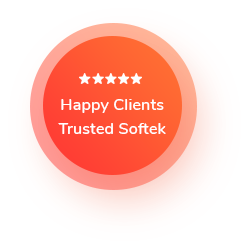
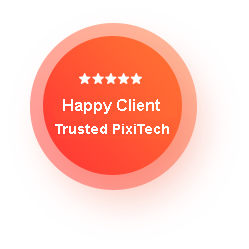
update content

Changed region(s): [[0.2249, 0.3936, 0.7028, 0.5622]]

diff --git a/index.html b/index.html
@@ -4,8 +4,8 @@
 <head>
   <meta name="viewport" content="width=device-width, initial-scale=1">
   <meta name="format-detection" content="telephone=no">
-  <meta name="description" content="Softek - Software & IT Solutions WordPress Theme">
-  <title>Home Version Seventeen – Softek</title>
+  <meta name="description" content="PixiTech - Vietnam Software Development Company">
+  <title>PixiTech - Innovative minds</title>
   <meta name="robots" content="max-image-preview:large">
   <link rel="dns-prefetch" href="//fonts.googleapis.com">
   <link rel="preconnect" href="https://fonts.gstatic.com">
@@ -58,10 +58,9 @@
     }
   </style>
   <link type="text/css" href="css/index.css">
-  <link rel="icon" href="images/Fab_icon-7.png" sizes="32x32">
-  <link rel="icon" href="images/Fab_icon-7.png" sizes="192x192">
-  <link rel="apple-touch-icon-precomposed" href="images/Fab_icon-7.png">
-  <meta name="msapplication-TileImage" content="images/Fab_icon-7.png"><noscript>
+  <link rel="shortcut icon" href="images/favicon.ico" type="image/x-icon">
+  <link rel="icon" href="images/favicon.ico" type="image/x-icon">
+  <noscript>
     <style>
       .woocommerce-product-gallery {
         opacity: 1 !important;
@@ -702,10 +701,10 @@
                                 <div class="logo" style="width: 100%;">
                                   <a href="">
                                     <span class="logo-default" style="text-align: center;">
-                                      <img src="images/new-logo.png">
+                                      <img src="images/pixi-logo.png">
                                     </span>
                                     <span class="logo-rt-dark">
-                                      <img src="images/new-logo.png" alt="logo">
+                                      <img src="images/pixi-logo.png" alt="logo">
                                     </span>
                                   </a>
                                 </div>
@@ -772,7 +771,7 @@
                               class="elementor-element elementor-element-48d56e70 elementor-widget elementor-widget-heading"
                               data-id="48d56e70" data-element_type="widget" data-widget_type="heading.default">
                               <div class="elementor-widget-container">
-                                <h6 class="elementor-heading-title elementor-size-default">PixiTech Co., Ltd
+                                <h6 class="elementor-heading-title elementor-size-default">Vietnam Software Development Company
                                 </h6>
                               </div>
                             </div>
@@ -780,16 +779,14 @@
                               class="elementor-element elementor-element-1b552e8f elementor-widget elementor-widget-heading"
                               data-id="1b552e8f" data-element_type="widget" data-widget_type="heading.default">
                               <div class="elementor-widget-container">
-                                <h1 class="elementor-heading-title elementor-size-default">Vietnam Software Development
-                                  Company</h1>
+                                <h1 class="elementor-heading-title elementor-size-default">Web & Mobile App Development</h1>
                               </div>
                             </div>
                             <div
                               class="elementor-element elementor-element-7334acc6 elementor-widget elementor-widget-text-editor"
                               data-id="7334acc6" data-element_type="widget" data-widget_type="text-editor.default">
-                              <div class="elementor-widget-container">High-performing software solutions that drive your
-                                business forward. Accelerate your software development roadmap through custom
-                                engineering solutions.</div>
+                              <div class="elementor-widget-container">We’re mobile and web development company that helps develop ideas from
+                                napkin sketches to full-fledged products.</div>
                             </div>
                             <section
                               class="elementor-section elementor-inner-section elementor-element elementor-element-76c15dfb elementor-section-boxed elementor-section-height-default elementor-section-height-default"
@@ -890,8 +887,8 @@
                               data-id="73133d09" data-element_type="widget" data-settings='{"_position":"absolute"}'
                               data-widget_type="image.default">
                               <div class="elementor-widget-container"><img width="1448" height="1242"
-                                  src="images/home-17-2x-01-min.webp" class="attachment-full size-full" alt=""
-                                  srcset="images/home-17-2x-01-min.webp 1448w, images/home-17-2x-01-min-300x257.webp 300w, images/home-17-2x-01-min-300x257.webp 600w"
+                                  src="images/pixi-web-app.png" class="attachment-full size-full" alt=""
+                                  srcset="images/pixi-web-app.png 1448w, images/pixi-web-app.png 300w, images/home-17-2x-01-min-300x257.webp 600w"
                                   sizes="(max-width: 1448px) 100vw, 1448px"></div>
                             </div>
                           </div>
@@ -1177,8 +1174,7 @@
                               data-settings='{"_animation":"fadeIn","_animation_delay":300}'
                               data-widget_type="heading.default">
                               <div class="elementor-widget-container">
-                                <h3 class="elementor-heading-title elementor-size-default">We Are Creative In Design
-                                  &amp; Development</h3>
+                                <h3 class="elementor-heading-title elementor-size-default">Software Consulting and Development</h3>
                               </div>
                             </div>
                             <div
@@ -1187,8 +1183,7 @@
                               data-settings="{&quot;_animation&quot;:&quot;fadeIn&quot;,&quot;_animation_delay&quot;:400}"
                               data-widget_type="text-editor.default">
                               <div class="elementor-widget-container">
-                                We’re international mobile and web development company that helps develop ideas from
-                                napkin sketches to full-fledged products.</div>
+                                High-performing software solutions that drive your business forward. Accelerate your software development roadmap through custom engineering solutions.</div>
                             </div>
                             <section
                               class="elementor-section elementor-inner-section elementor-element elementor-element-1b673fc2 elementor-section-boxed elementor-section-height-default elementor-section-height-default elementor-invisible"
@@ -1254,7 +1249,7 @@
                                       class="elementor-column elementor-col-50 elementor-inner-column elementor-element elementor-element-258d033f"
                                       data-id="258d033f" data-element_type="column">
                                       <div class="elementor-widget-wrap elementor-element-populated">
-                                        <div
+                   <!--                      <div
                                           class="elementor-element elementor-element-6422a841 elementor-widget elementor-widget-heading"
                                           data-id="6422a841" data-element_type="widget"
                                           data-widget_type="heading.default">
@@ -1262,14 +1257,12 @@
                                             <h6 class="elementor-heading-title elementor-size-default">Customer Focus
                                             </h6>
                                           </div>
-                                        </div>
+                                        </div> -->
                                         <div
                                           class="elementor-element elementor-element-2b40539f elementor-widget elementor-widget-text-editor"
                                           data-id="2b40539f" data-element_type="widget"
                                           data-widget_type="text-editor.default">
-                                          <div class="elementor-widget-container">We always put our clients first and
-                                            are
-                                            dedicated to delivering customized solutions that meet their specific needs.
+                                          <div class="elementor-widget-container">To be the leading company of innovative and high-quality software solutions and IT manpowers that empower our clients to achieve their goals.
                                           </div>
                                         </div>
                                       </div>
@@ -1342,23 +1335,20 @@
                                       class="elementor-column elementor-col-50 elementor-inner-column elementor-element elementor-element-6a5769d9"
                                       data-id="6a5769d9" data-element_type="column">
                                       <div class="elementor-widget-wrap elementor-element-populated">
-                                        <div
+                    <!--                     <div
                                           class="elementor-element elementor-element-2fff53bf elementor-widget elementor-widget-heading"
                                           data-id="2fff53bf" data-element_type="widget"
                                           data-widget_type="heading.default">
                                           <div class="elementor-widget-container">
-                                            <h6 class="elementor-heading-title elementor-size-default">Commitment of
-                                              quality
+                                            <h6 class="elementor-heading-title elementor-size-default">Commitment of quality
                                             </h6>
                                           </div>
-                                        </div>
+                                        </div> -->
                                         <div
                                           class="elementor-element elementor-element-46f704b2 elementor-widget elementor-widget-text-editor"
                                           data-id="46f704b2" data-element_type="widget"
                                           data-widget_type="text-editor.default">
-                                          <div class="elementor-widget-container">We deliver high-quality software that
-                                            exceeds industry standards, ensuring that out clients can rely on us for
-                                            reliable and efficient solutions.</div>
+                                          <div class="elementor-widget-container">Deliver exceptional software development services and supply good quality human resources in IT which exceed the expectations of our clients</div>
                                         </div>
                                       </div>
                                     </div>
@@ -1412,8 +1402,7 @@
                       data-id="5839812d" data-element_type="widget"
                       data-settings='{"_animation":"fadeIn","_animation_delay":400}'
                       data-widget_type="text-editor.default">
-                      <div class="elementor-widget-container">Your company needs great software solutions. Let’s build
-                        high-performing products.</div>
+                      <div class="elementor-widget-container">We offer dedicated teams of developers, UI/UX designers, software testers as well as mixed teams consisting of different IT experts.</div>
                     </div>
                     <section
                       class="elementor-section elementor-inner-section elementor-element elementor-element-585cd795 elementor-section-boxed elementor-section-height-default elementor-section-height-default elementor-invisible"
@@ -1547,9 +1536,9 @@
                       data-settings='{"_animation":"none","_animation_delay":800,"_position":"absolute"}'
                       data-widget_type="image.default">
                       <div class="elementor-widget-container"><img
-                          src="images/home-17-2x-03-min-pvssmvqpb0fqrau3l2q893xb98jv3vb4980bqq5008-q46cukipaclps1mfqrjq841yucc69a9divn003ykw8.webp"
-                          title="home-17-2x-03-min-pvssmvqpb0fqrau3l2q893xb98jv3vb4980bqq5008"
-                          alt="home-17-2x-03-min-pvssmvqpb0fqrau3l2q893xb98jv3vb4980bqq5008"></div>
+                          src="images/dedicated-team-model-process.png"
+                          title="Dedicated Development Team Service"
+                          alt="Dedicated Development Team Service"></div>
                     </div>
                   </div>
                 </div>
@@ -1632,21 +1621,12 @@
                         class="elementor-element elementor-element-2773b7c5 move-image-left-right elementor-widget__width-initial elementor-widget elementor-widget-image"
                         data-id="2773b7c5" data-element_type="widget" data-widget_type="image.default">
                         <div class="elementor-widget-container">
-                          <img decoding="async" loading="lazy" width="557" height="557" src="images/Img01-7.webp"
-                            class=" attachment-full size-full" alt srcset="images/Img01-7.webp 557w"
+                          <img decoding="async" loading="lazy" width="557" height="557" src="images/05-8.png"
+                            class=" attachment-full size-full" alt srcset="images/05-8.png 557w"
                             sizes="(max-width: 557px) 100vw, 557px" />
                         </div>
                       </div>
-                      <div
-                        class="elementor-element elementor-element-ca1907e rt-particle-moving-2 elementor-widget__width-initial elementor-absolute elementor-widget-mobile__width-initial elementor-widget elementor-widget-image"
-                        data-id="ca1907e" data-element_type="widget"
-                        data-settings="{&quot;_position&quot;:&quot;absolute&quot;}" data-widget_type="image.default">
-                        <div class="elementor-widget-container">
-                          <img decoding="async" loading="lazy" width="249" height="249" src="images/Img02-7.png"
-                            class="attachment-full size-full" alt srcset="images/Img02-7.png 249w"
-                            sizes="(max-width: 249px) 100vw, 249px" />
-                        </div>
-                      </div>
+                      
                       <div
                         class="elementor-element elementor-element-3919aa9b rt-particle-moving-2 elementor-absolute elementor-hidden-tablet elementor-hidden-phone elementor-view-default elementor-widget elementor-widget-icon"
                         data-id="3919aa9b" data-element_type="widget"
@@ -1919,7 +1899,7 @@
                         data-settings="{&quot;_animation&quot;:&quot;fadeInUp&quot;,&quot;_animation_delay&quot;:200}"
                         data-widget_type="heading.default">
                         <div class="elementor-widget-container">
-                          <h6 class="elementor-heading-title elementor-size-default">Simple To Get Started</h6>
+                          <h6 class="elementor-heading-title elementor-size-default">Get Free Consultation</h6>
                         </div>
                       </div>
                       <div
@@ -1928,26 +1908,23 @@
                         data-settings="{&quot;_animation&quot;:&quot;fadeInUp&quot;,&quot;_animation_delay&quot;:400}"
                         data-widget_type="heading.default">
                         <div class="elementor-widget-container">
-                          <h3 class="elementor-heading-title elementor-size-default">To make your claim contact us on
-                            given</h3>
+                          <h3 class="elementor-heading-title elementor-size-default">Tell us about your project</h3>
                         </div>
                       </div>
-                      <div
+             <!--          <div
                         class="elementor-element elementor-element-73f8e243 elementor-invisible elementor-widget elementor-widget-heading"
                         data-id="73f8e243" data-element_type="widget"
                         data-settings="{&quot;_animation&quot;:&quot;fadeInUp&quot;,&quot;_animation_delay&quot;:400}"
                         data-widget_type="heading.default">
                         <div class="elementor-widget-container">
-                          <h3 class="elementor-heading-title elementor-size-default">social platforms.</h3>
+                          <h3 class="elementor-heading-title elementor-size-default">email or phone.</h3>
                         </div>
-                      </div>
+                      </div> -->
                       <div
                         class="elementor-element elementor-element-207dd359 elementor-widget elementor-widget-text-editor"
                         data-id="207dd359" data-element_type="widget" data-widget_type="text-editor.default">
                         <div class="elementor-widget-container">
-                          <p>Morbi sagittis hendrt nulla ultricies. Cras en diam ips elementum pretium hendrerit
-                            ultricies. Lorem Ipsum is simply dummy text of the printing and typesetting has been the
-                            industry&#8217;s</p>
+                          <p>Share your project idea and get a free consultation with our development team. We’ll contact your back within 24 hours. It’s free!</p>
                         </div>
                       </div>
                       <section
@@ -2081,15 +2058,14 @@
                               data-widget_type="radiant-custom-logo.default">
                               <div class="elementor-widget-container">
                                 <div class="logo"><a href=""><span class="logo-rt-dark"><img
-                                        src="images/pixi-logo-white.png" alt="logo" data-logowidth="145"></span></a>
+                                        src="images/pixi-logo-slogan-white.png" alt="logo" data-logowidth="145"></span></a>
                                 </div>
                               </div>
                             </div>
                             <div
                               class="elementor-element elementor-element-f7cbf4a elementor-widget elementor-widget-text-editor"
                               data-id="f7cbf4a" data-element_type="widget" data-widget_type="text-editor.default">
-                              <div class="elementor-widget-container">Typesetting has been the industry&rsquo;s standard
-                                dummy text.Ever since the 1500s, when an unknown.</div>
+                              <div class="elementor-widget-container">Vietnam Software Development Company where ideas & expertise meet to become great software solutions.</div>
                             </div>
                             <div
                               class="elementor-element elementor-element-7c2bb26a e-grid-align-left elementor-shape-circle elementor-grid-0 elementor-widget elementor-widget-social-icons"
